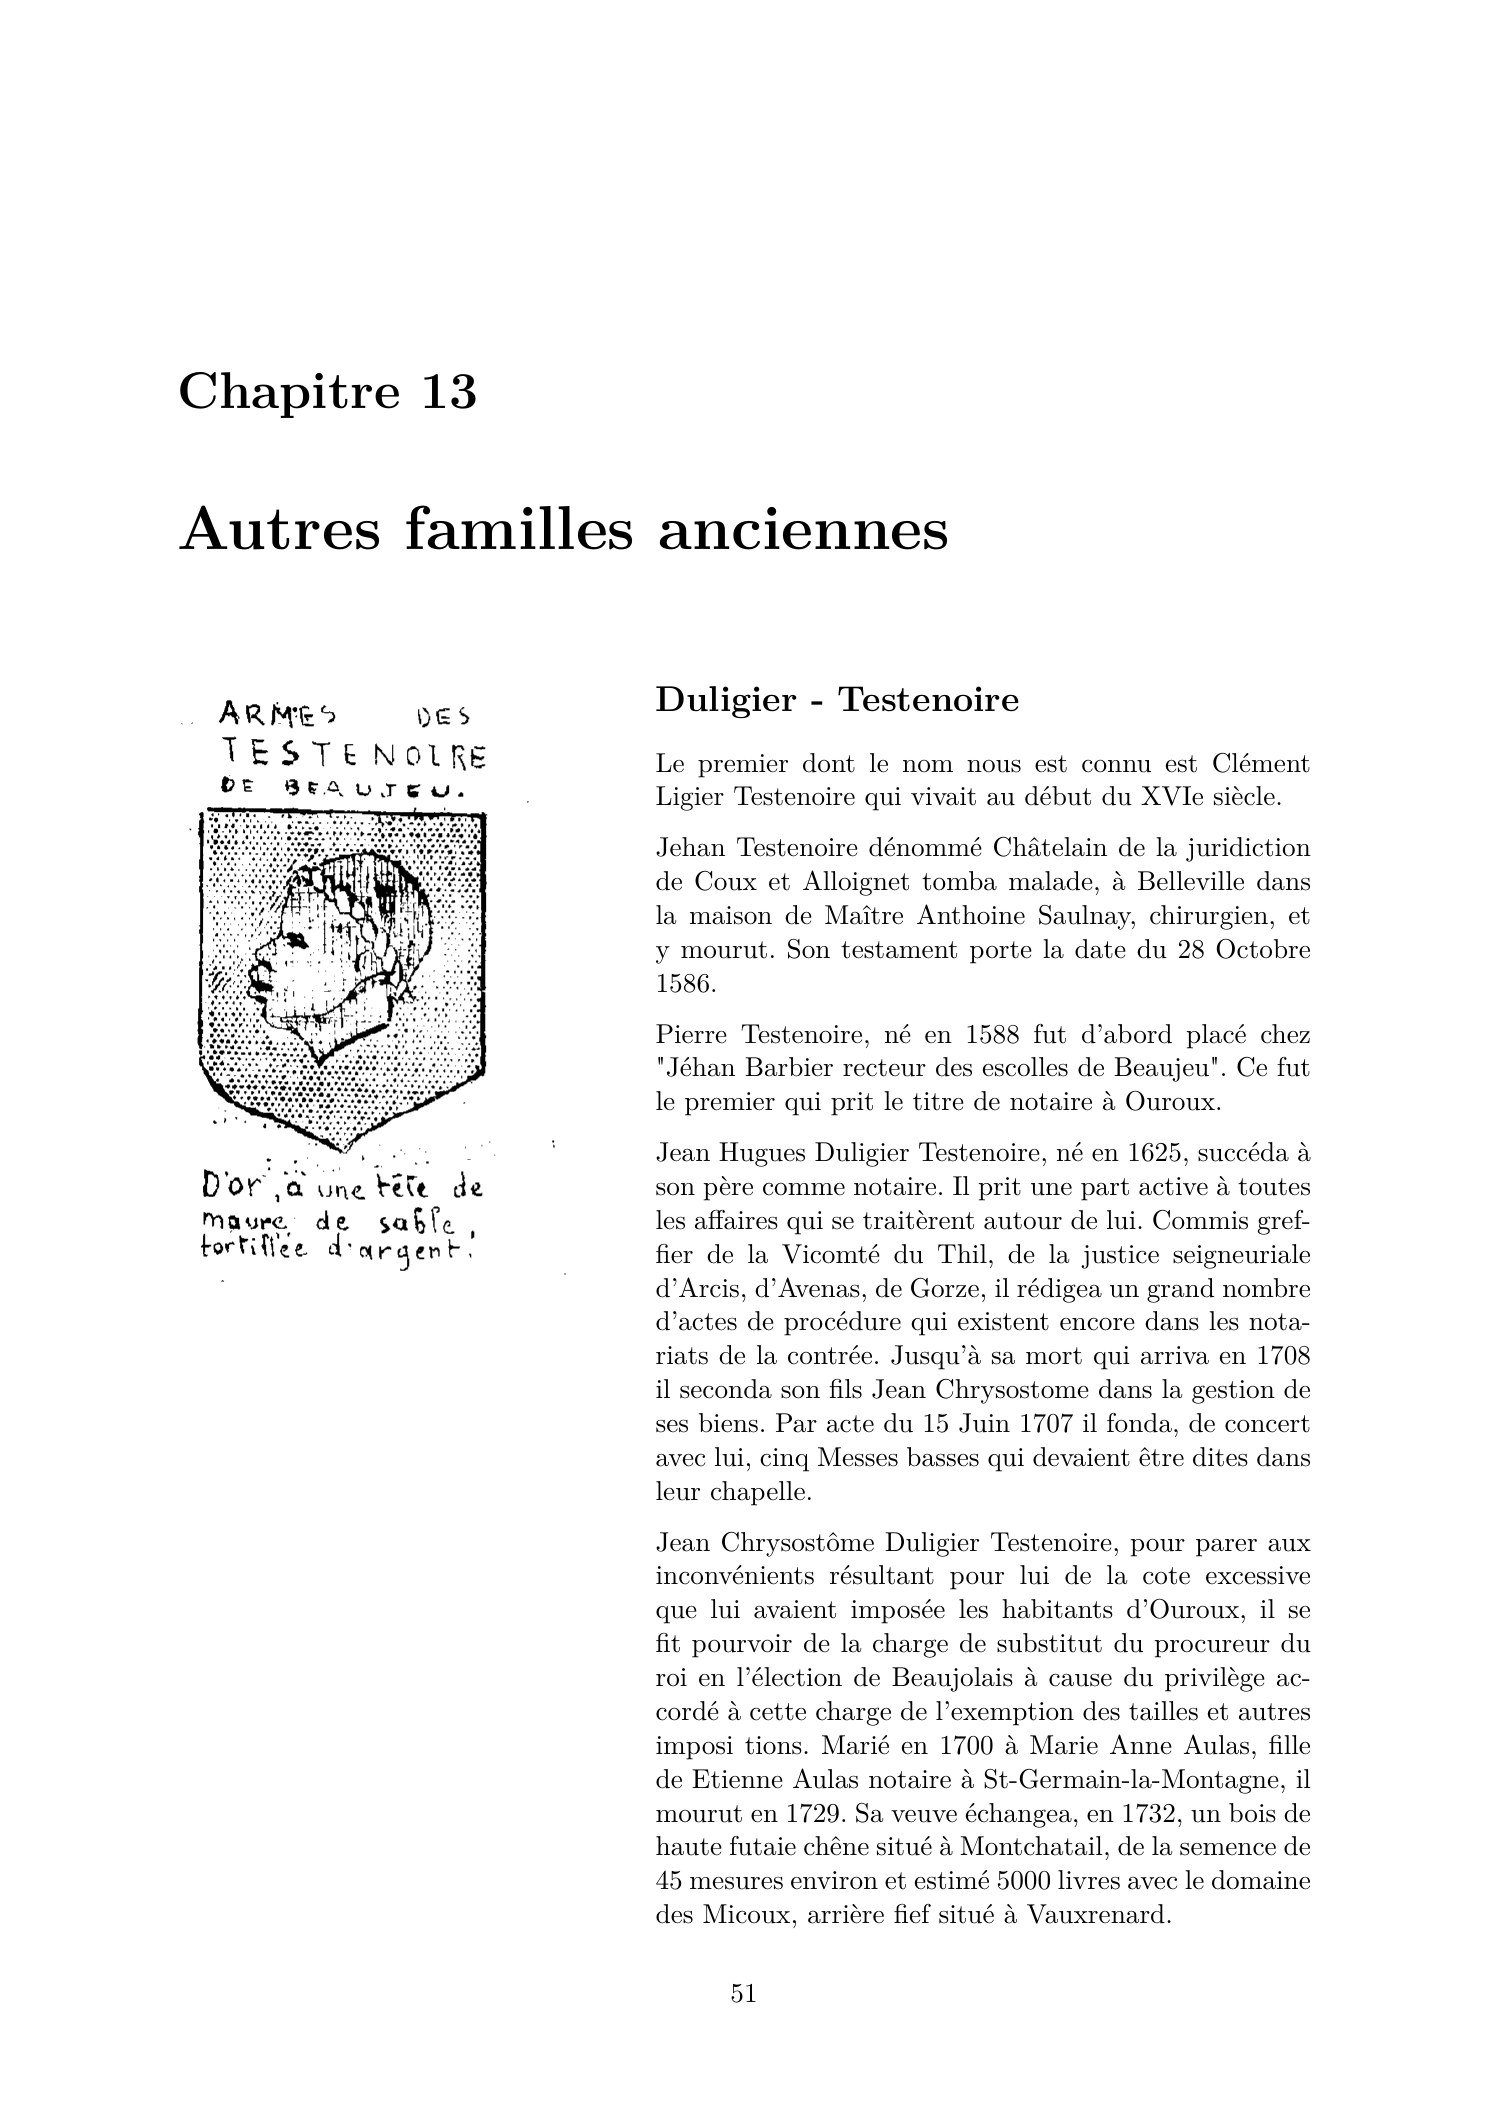
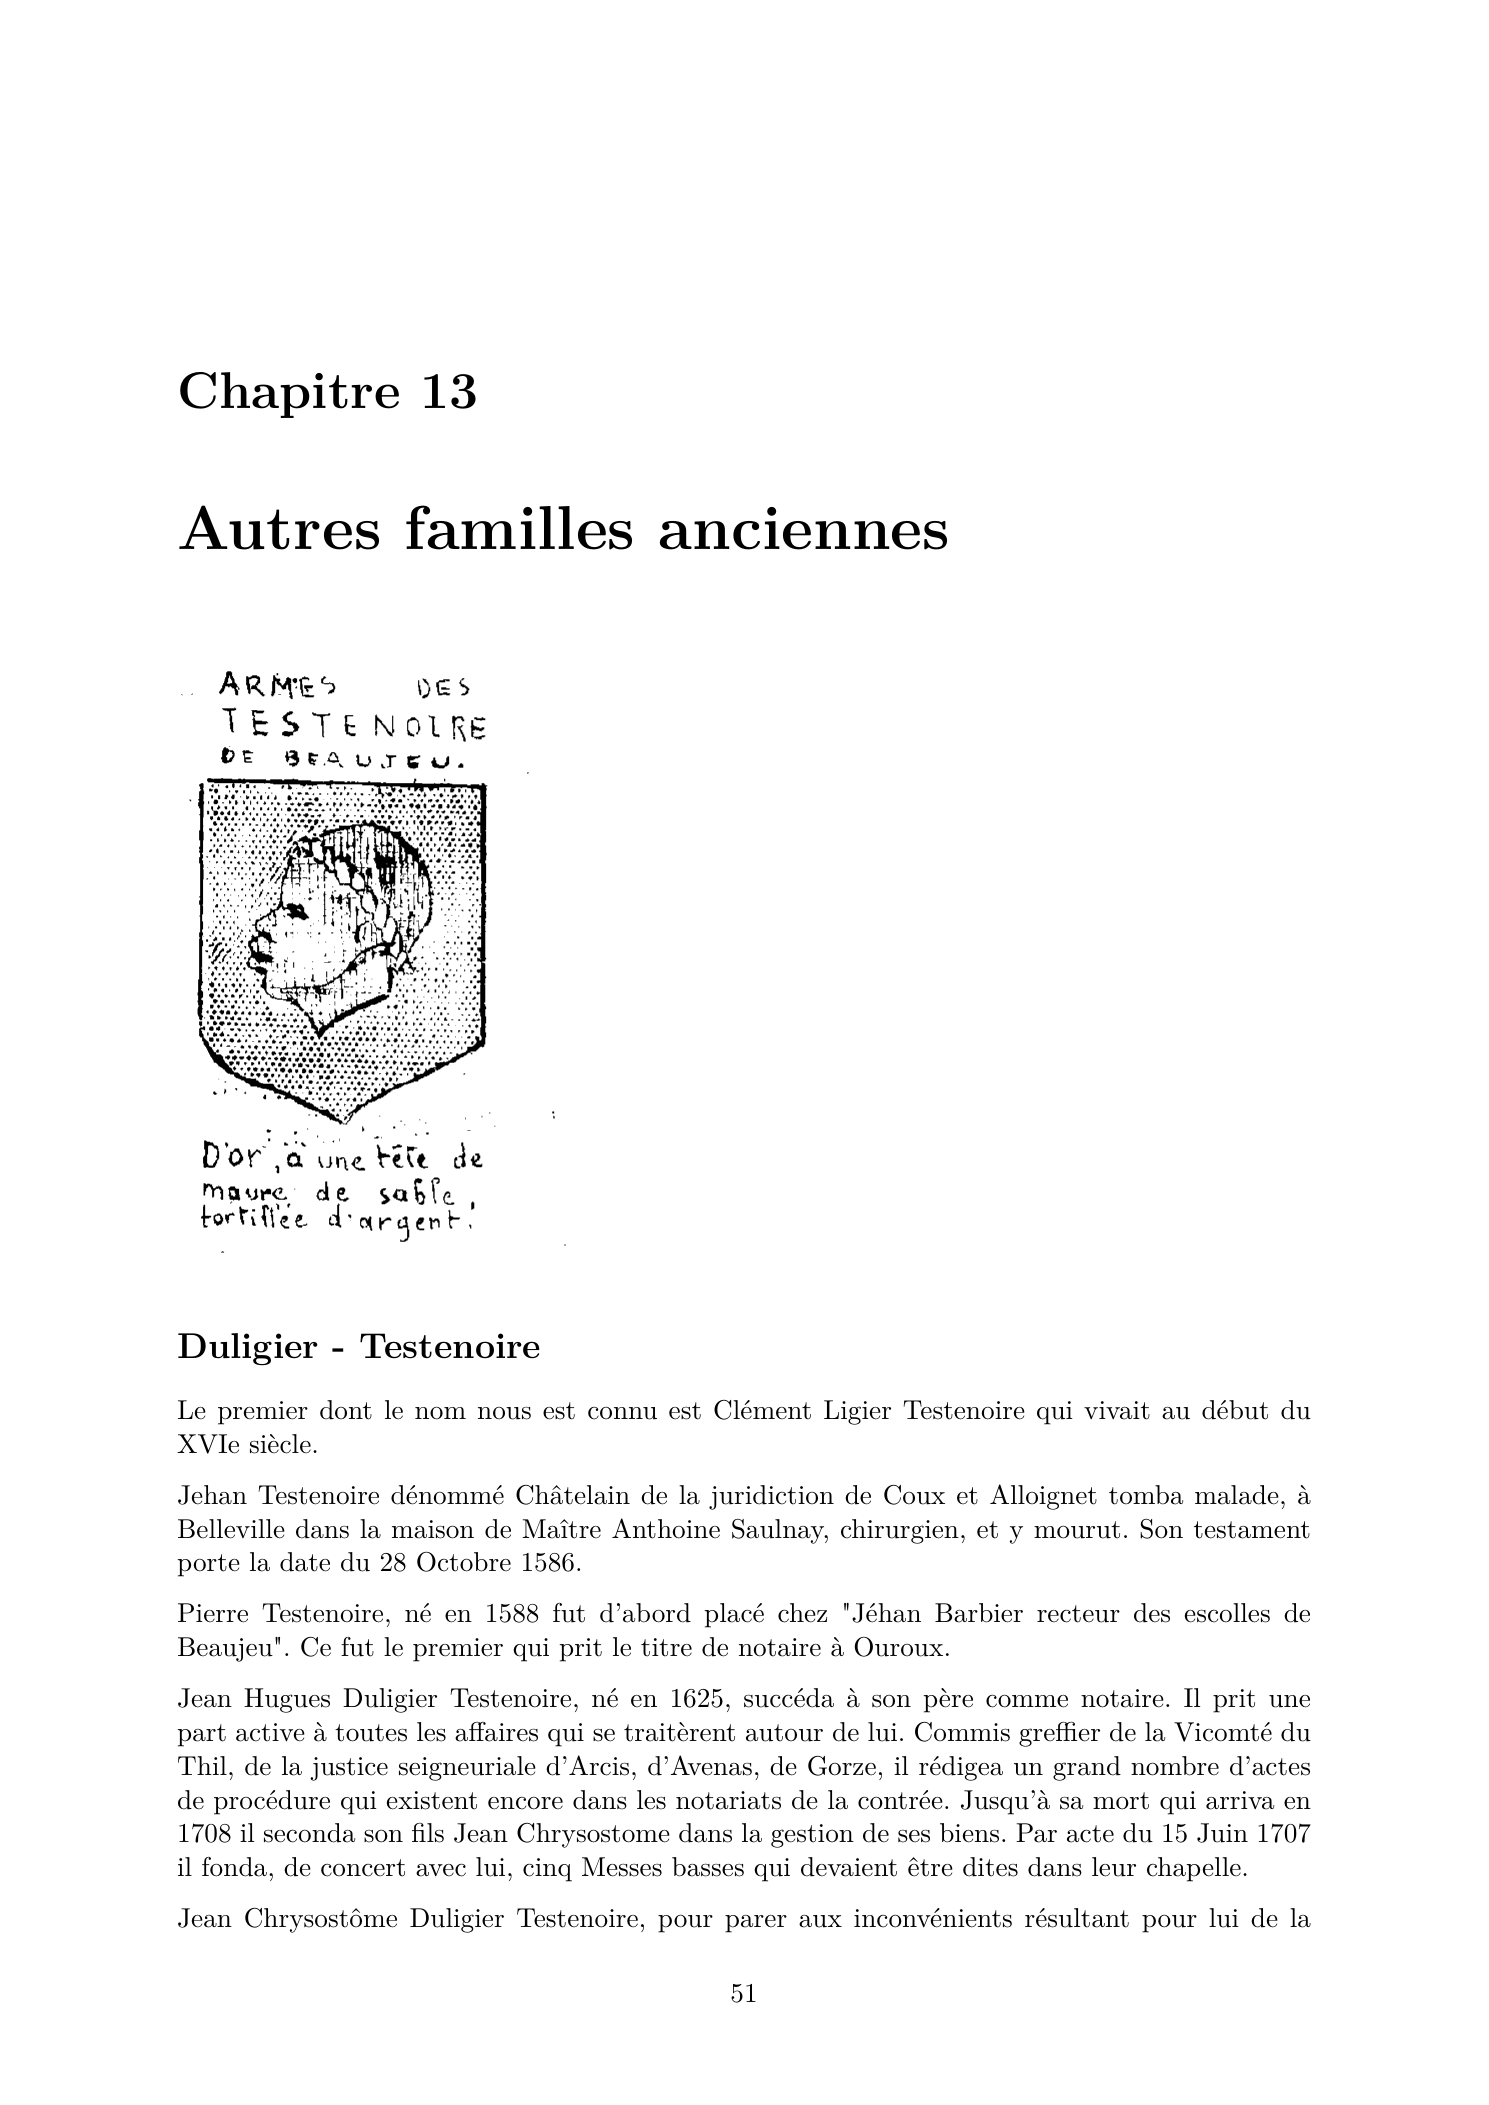
fix: reprendre le texte sous le blason

diff --git a/Chapitres/13-autres-familles.tex b/Chapitres/13-autres-familles.tex
@@ -5,10 +5,7 @@
 \chapter{Autres familles anciennes}
 
 % --- Page imprimée 67 — vue 70
-\begin{wrapfigure}{l}{0.40\textwidth}
-    \vspace{-0.8\baselineskip}
-    \includegraphics[width=0.37\textwidth]{Illustrations/illus-autres-testenoire.png}
-\end{wrapfigure}
+\noindent\includegraphics[width=0.37\textwidth]{Illustrations/illus-autres-testenoire.png}\par
 
 \section*{Duligier - Testenoire}
 
